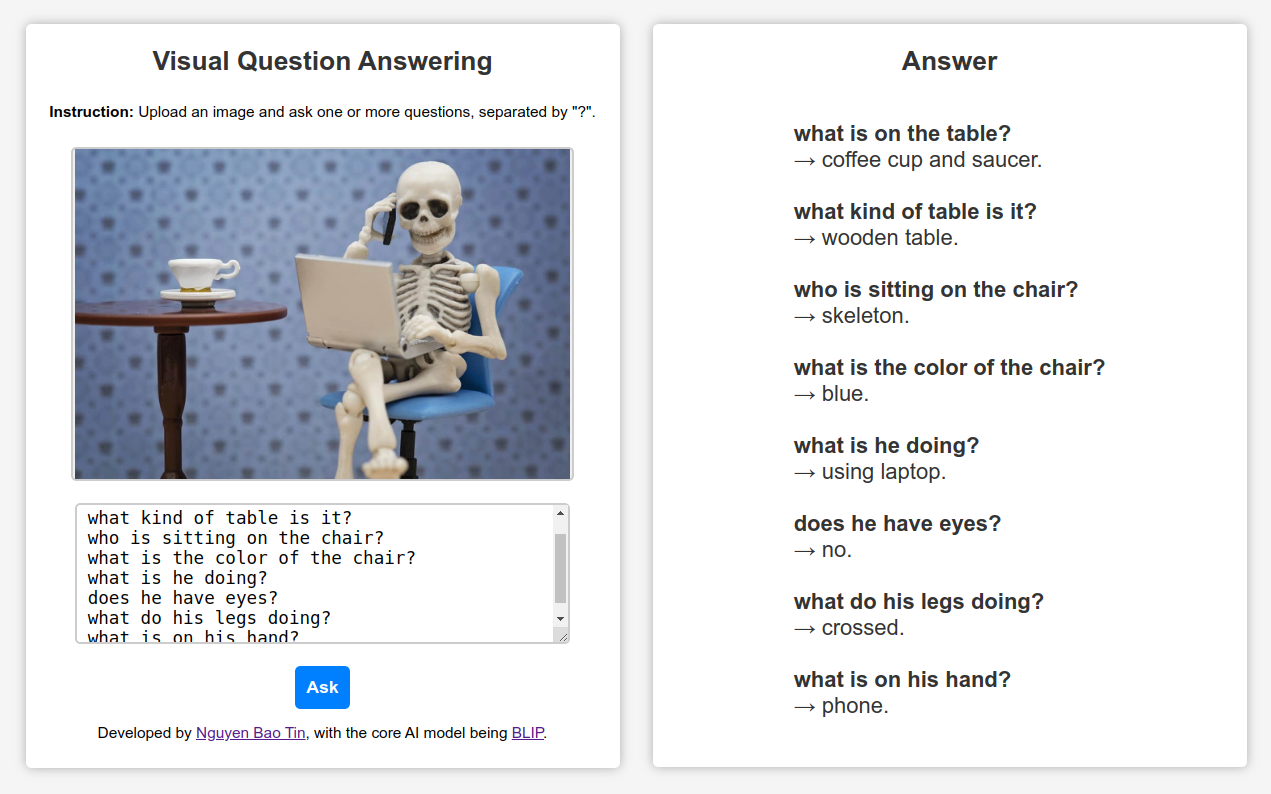
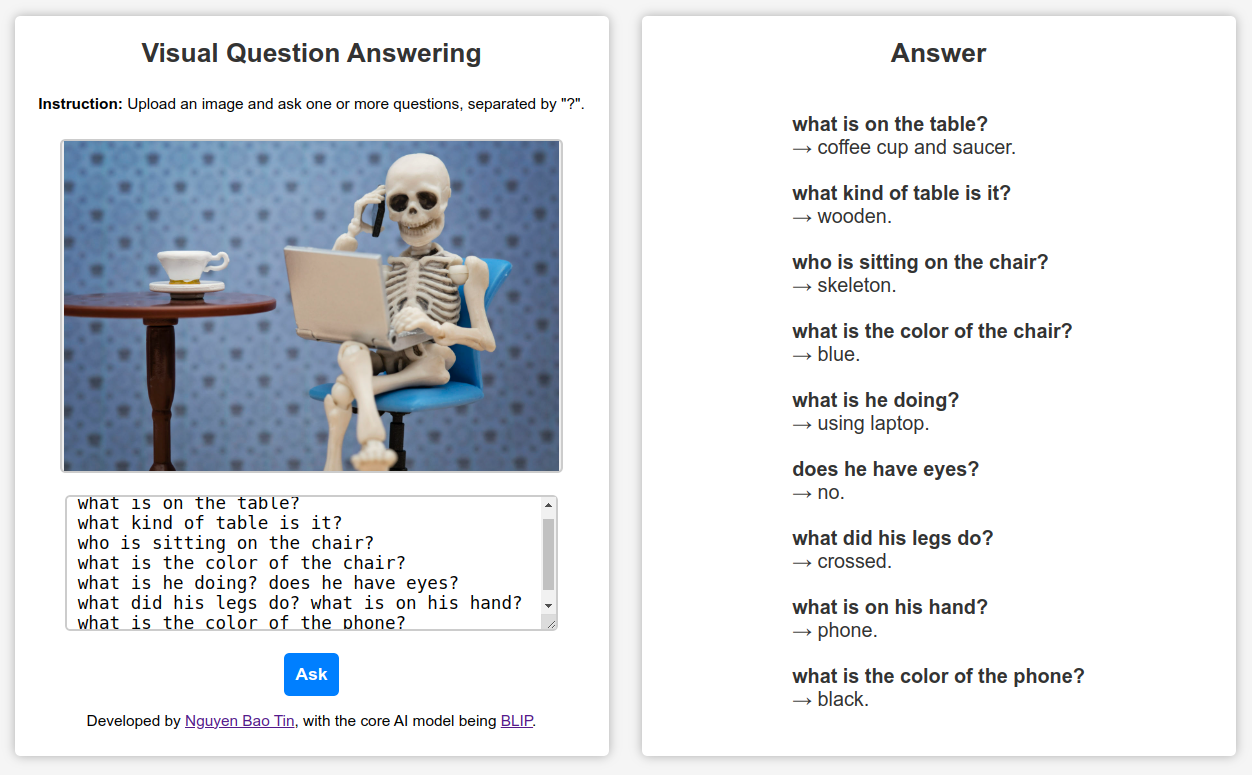
Update README.md

diff --git a/app/vqa/tests/test_api.py b/app/vqa/tests/test_api.py
@@ -58,7 +58,7 @@ class GetAnswersTestCase(APITestCase):
         self.template(questions, "image3.jpg", answers)
 
     def test_get_answers_4(self):
-        questions = "what is on the table? what kind of table is it? who is sitting on the chair? what is the color of the chair? what is he doing? does he have eyes? what do his legs doing? what is on his hand? what is the color of the phone?"
+        questions = "what is on the table? what kind of table is it? who is sitting on the chair? what is the color of the chair? what is he doing? does he have eyes? what did his legs do? what is on his hand? what is the color of the phone?"
         answers = [
             "coffee cup and saucer.",
             "wooden.",

diff --git a/README.md b/README.md
@@ -27,9 +27,9 @@ This repository contains a [**Visual Question Answering**](https://huggingface.c
 - [6. References](#6-references)
 
 ## 1. Introduction
-**Visual Question Answering** (VQA) is a challenging task in the field of computer vision and natural language processing. It involves answering questions about an image based on its visual content. There are several potential applications for VQA, including helping visually impaired individuals understand their surroundings, assisting with image retrieval in large databases, and improving the capabilities of autonomous robots and vehicles.
+[**Visual Question Answering**](https://huggingface.co/tasks/visual-question-answering) (VQA) is a challenging task in the field of computer vision and natural language processing. It involves answering questions about an image based on its visual content. There are several potential applications for VQA, including helping visually impaired individuals understand their surroundings, assisting with image retrieval in large databases, and improving the capabilities of autonomous robots and vehicles.
 
-This repository provides a web application that demonstrates the capabilities of the **BLIP** model for VQA. The app allows users to upload images and ask questions, and the model provides answers based on the visual information present in the images.
+This repository provides a web application that demonstrates the capabilities of the [**BLIP**](https://arxiv.org/abs/2201.12086) model for VQA. The app allows users to upload images and ask questions, and the model provides answers based on the visual information present in the images.
 
 
 ## 2. Technical Overview
@@ -68,7 +68,7 @@ To install and run the VQA demo web app, please follow the steps below:
    docker compose up --build
    ```
 
-   **Note:** The first time you run the above command, you will need to be patient :smile:. The containerization process may take up to 30 minutes depending on your network speed. This is because the process involves downloading libraries (also includes some libraries to run on GPU if available) and the BLIP model, which has a size of approximately 1.35 GB.
+   **Note:** The first time you run the above command, you will need to be patient :smile:. This process may take up to 30 minutes depending on your network speed. This is because the process involves downloading libraries (also includes some libraries to run on GPU if available) and the **BLIP** model, which has a size of approximately *1.35 GB*.
 
 5. Wait for the installation process to complete. Once the downloading is done, the web app will be ready to use.
 
